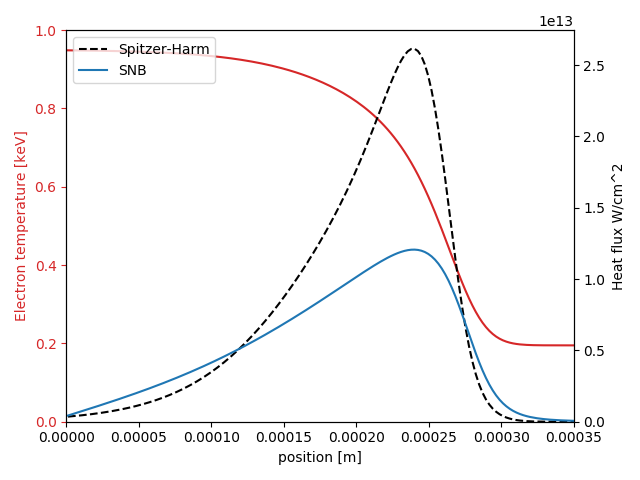
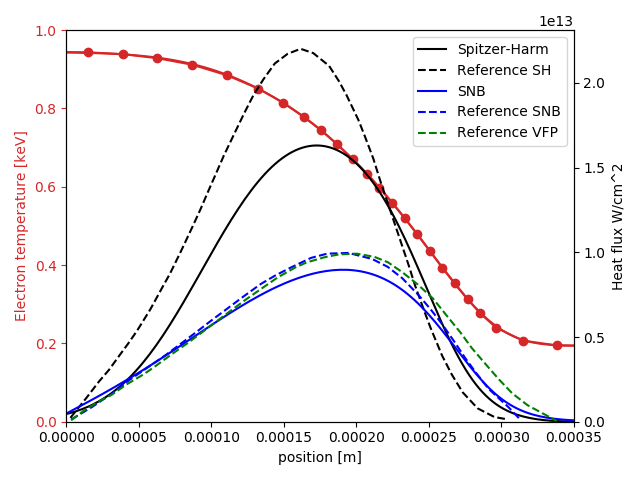
Updated SNB step comparison
- Improved match to temperature by fitting to data
  -> added the script fit_temperature.py used to get coefficients
- Updated graph in manual

diff --git a/examples/conduction-snb/step.py b/examples/conduction-snb/step.py
@@ -56,21 +56,21 @@ VFP_ref[:,0] *= 1e-4
 fig, ax1 = plt.subplots()
 
 color='tab:red'
-ax1.plot(position, Te * 1e-3, color=color)
-ax1.plot(Te_ref[:,0], Te_ref[:,1], color=color, marker="o")
+ax1.plot(position, Te * 1e-3, color=color, label="Te")
+ax1.plot(Te_ref[:,0], Te_ref[:,1], color=color, marker="o", label="Reference Te")
 ax1.set_xlabel("position [m]")
 ax1.set_ylabel("Electron temperature [keV]", color=color)
 ax1.set_ylim(0,1)
 ax1.tick_params(axis='y', colors=color)
 
 ax2 = ax1.twinx()
-ax2.plot(position, q_SH * 1e-4, '--k', label="Spitzer-Harm")
-ax2.plot(SH_ref[:,0], SH_ref[:,1], 'ok', label="Reference SH")
+ax2.plot(position, q_SH * 1e-4, '-k', label="Spitzer-Harm")
+ax2.plot(SH_ref[:,0], SH_ref[:,1], '--k', label="Reference SH")
 
 ax2.plot(position, q * 1e-4, '-b', label="SNB")
-ax2.plot(SNB_ref[:,0], SNB_ref[:,1], 'ob', label="Reference SNB")
+ax2.plot(SNB_ref[:,0], SNB_ref[:,1], '--b', label="Reference SNB")
 
-ax2.plot(VFP_ref[:,0], VFP_ref[:,1], 'or', label="Reference VFP")
+ax2.plot(VFP_ref[:,0], VFP_ref[:,1], '--g', label="Reference VFP")
 
 ax2.set_ylabel("Heat flux W/cm^2")
 ax2.set_ylim(bottom=0.0)

diff --git a/examples/conduction-snb/fit_temperature.py b/examples/conduction-snb/fit_temperature.py
@@ -1,0 +1,25 @@
+import numpy as np
+from scipy import optimize
+import matplotlib.pyplot as plt
+
+Te_ref = np.loadtxt("temperature.csv", delimiter=",")
+Te_ref[:,0] *= 1e-4 # Convert X axis to m
+
+def te_function(ypos, mid, wwid, w0, w1, w2, Tmax, Tmin, clip=False):
+    width = w0 + ((ypos - mid)*w1 + (ypos - mid)**2 * w2) * np.exp(-((ypos - mid)/wwid)**2)
+
+    if clip:
+        width = np.clip(width, 1e-10, None)
+    
+    return Tmax - 0.5 * (1 + np.tanh((ypos - mid)/width)) * (Tmax - Tmin)
+
+popt, pcov = optimize.curve_fit(te_function, Te_ref[:,0], Te_ref[:,1],
+                                p0 = [2.2e-4, 1e-4, 1e-4, 0.0, 0.0, 0.960, 0.190])
+
+print(popt)
+
+xfit = np.linspace(Te_ref[0,0], Te_ref[-1,0], 100)
+
+plt.plot(xfit, te_function(xfit, *popt, clip=True), '-k')
+plt.plot(Te_ref[:,0], Te_ref[:,1], 'or')
+plt.show()
